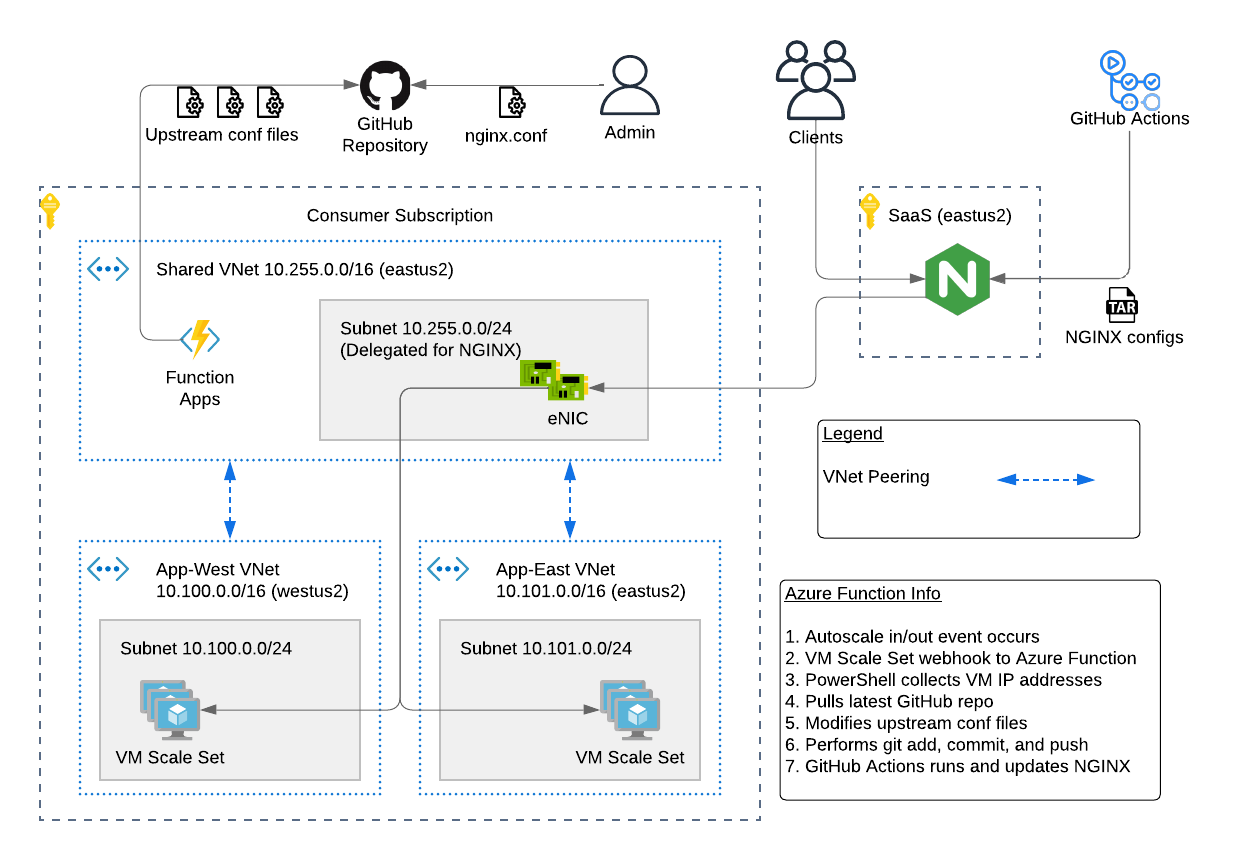
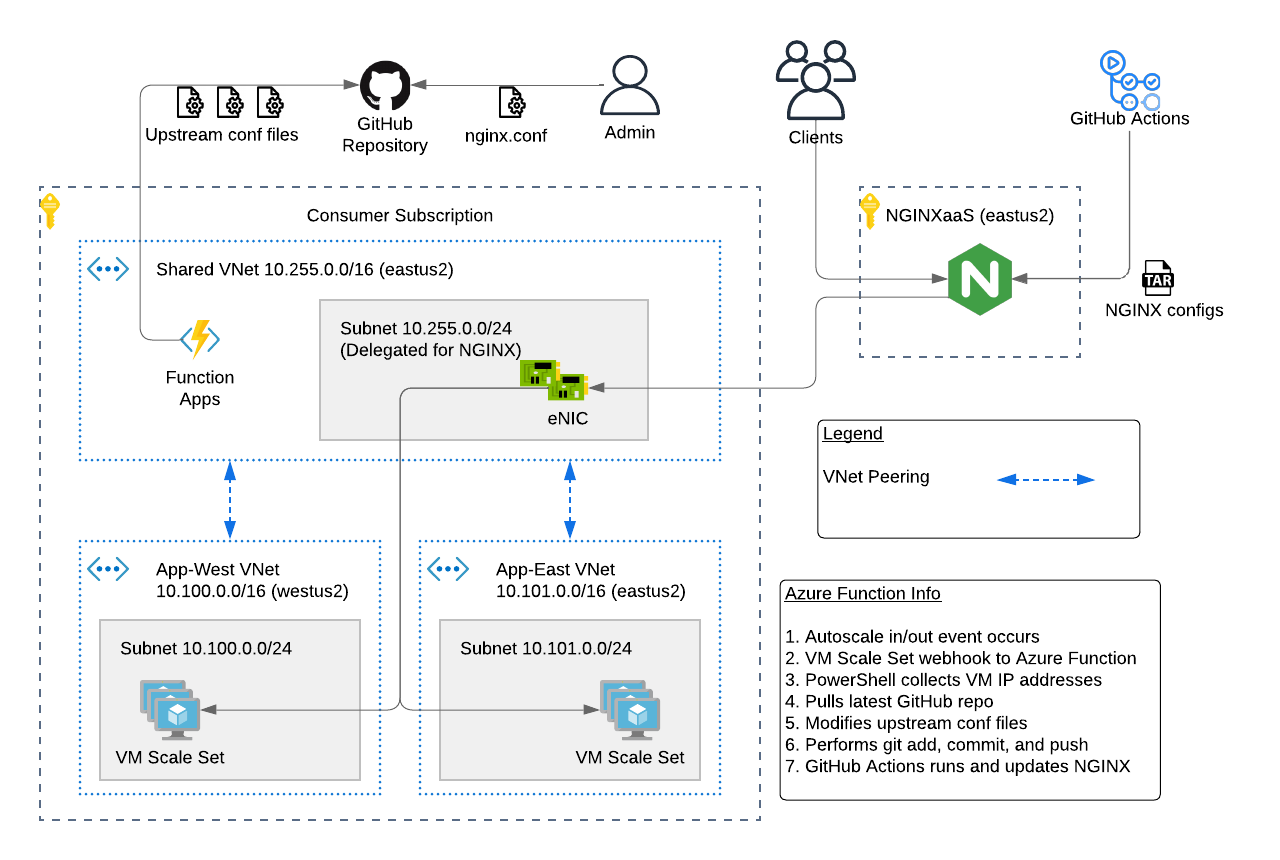
update readme

diff --git a/README.md b/README.md
@@ -24,9 +24,10 @@ This demo will create an [F5 NGINXaaS for Azure](https://docs.nginx.com/nginxaas
 
 The "Day 1" infrastructure deployment will consist of the following:
 
-- F5 Dataplane Subscription (SaaS)
+- F5 Dataplane Subscription (NGINXaaS)
   - NGINXaaS for Azure deployment
   - Note: hidden, user will not see this
+  - See [NGINXaaS for Azure High-level Architecture](https://docs.nginx.com/nginxaas/azure/quickstart/architecture/)
 - Shared VNet and subnets (customer Hub)
   - NGINX eNICs for [VNet injection](https://learn.microsoft.com/en-us/azure/virtual-network/virtual-network-for-azure-services)
   - Azure Function App with PowerShell code
@@ -137,7 +138,7 @@ Note: Depending on health checks and client request, you will either get the "We
 
 The NGINX configuration for this demo contains URL path routing and multiple upstream selections. The configuration is stored and managed in a GitHub repository, and it is pushed to the NGINX deployment through GitHub Actions using [NGINX Configuration Automation Workflows](https://docs.nginx.com/nginxaas/azure/management/nginx-configuration/#nginx-configuration-automation-workflows).
 
-This demo also utilizes autoscale notify events to trigger Azure Functions running PowerShell. The PowerShell script collects IP addresses of all VM instances in the autoscale groups...aka the upstream servers. Why is this needed? The current implemementation of NGINXaaS for Azure does not have service discovery. Additionally, the SaaS offering in Azure does not have an API to automatically add VMs to NGINX backend pools similar to how you can easily add VMs as targets to Azure Load Balancer or other Azure services. As a workaround, PowerShell is used to retrieve the IP addresses.
+This demo also utilizes autoscale notify events to trigger Azure Functions running PowerShell. The PowerShell script collects IP addresses of all VM instances in the autoscale groups...aka the upstream servers. Why is this needed? The current implemementation of NGINXaaS for Azure does not have service discovery. Additionally, the NGINXaaS offering in Azure does not have an API to automatically add VMs to NGINX backend pools similar to how you can easily add VMs as targets to Azure Load Balancer or other Azure services. As a workaround, PowerShell is used to retrieve the IP addresses.
 
 There are a few places in which you can adjust NGINX configurations for this demo. Most configuration changes should occur in the nginx.conf file which is in the GitHub repo. However, if you find the need to adjust server line directives, ports, or other upstream settings, then you can also adjust the PowerShell script and reapply Terraform.
 
